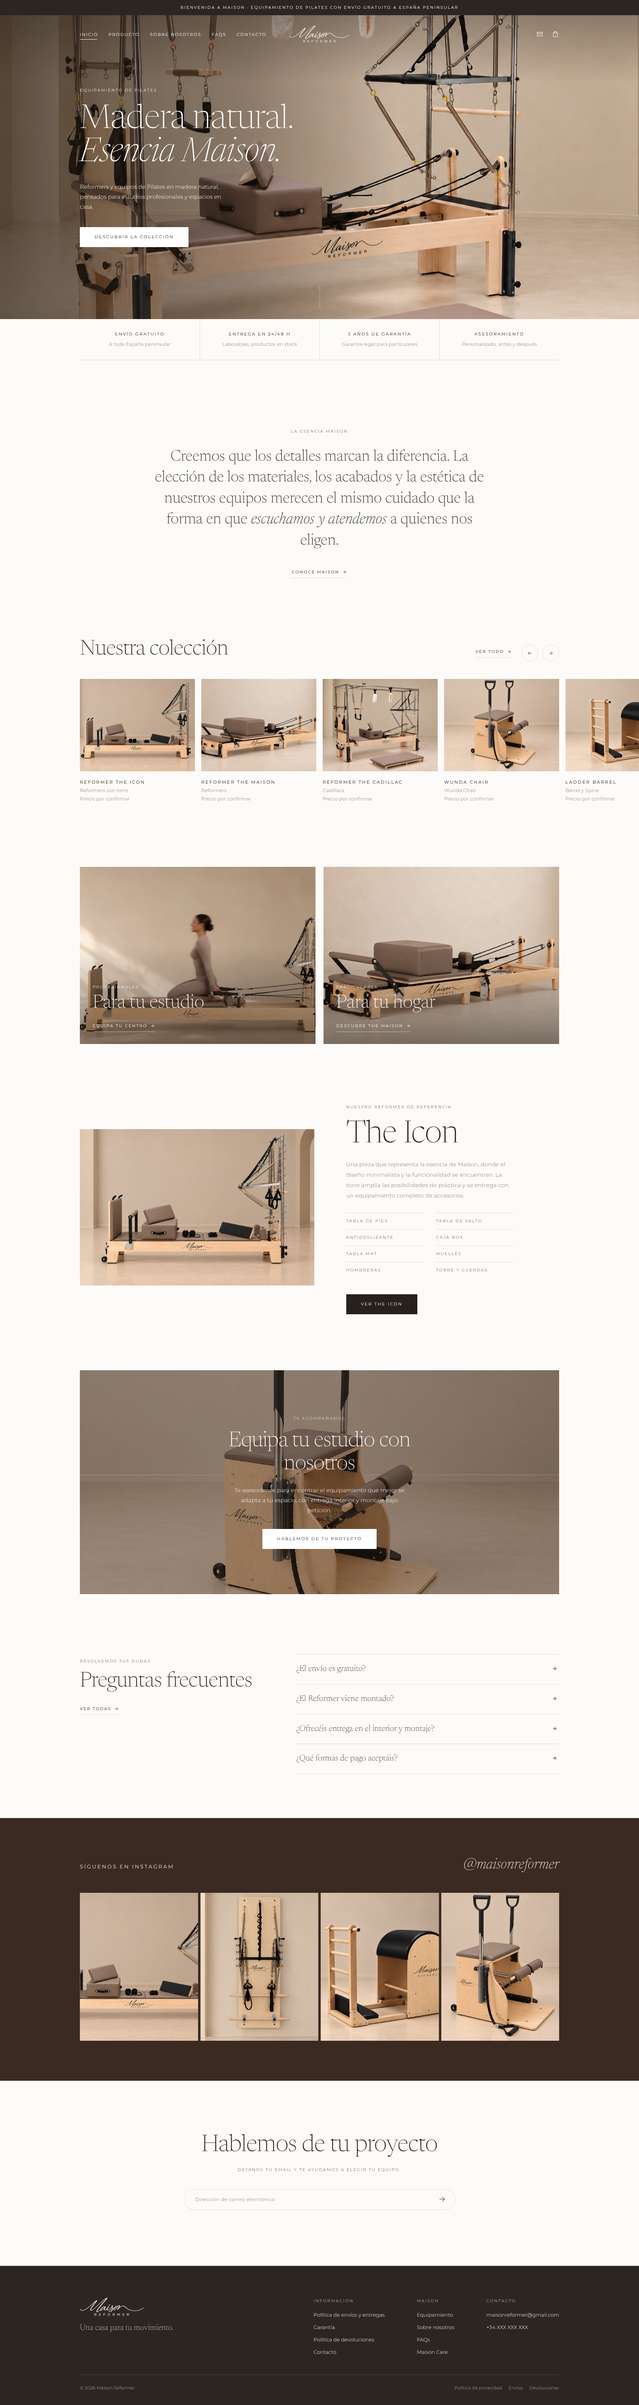
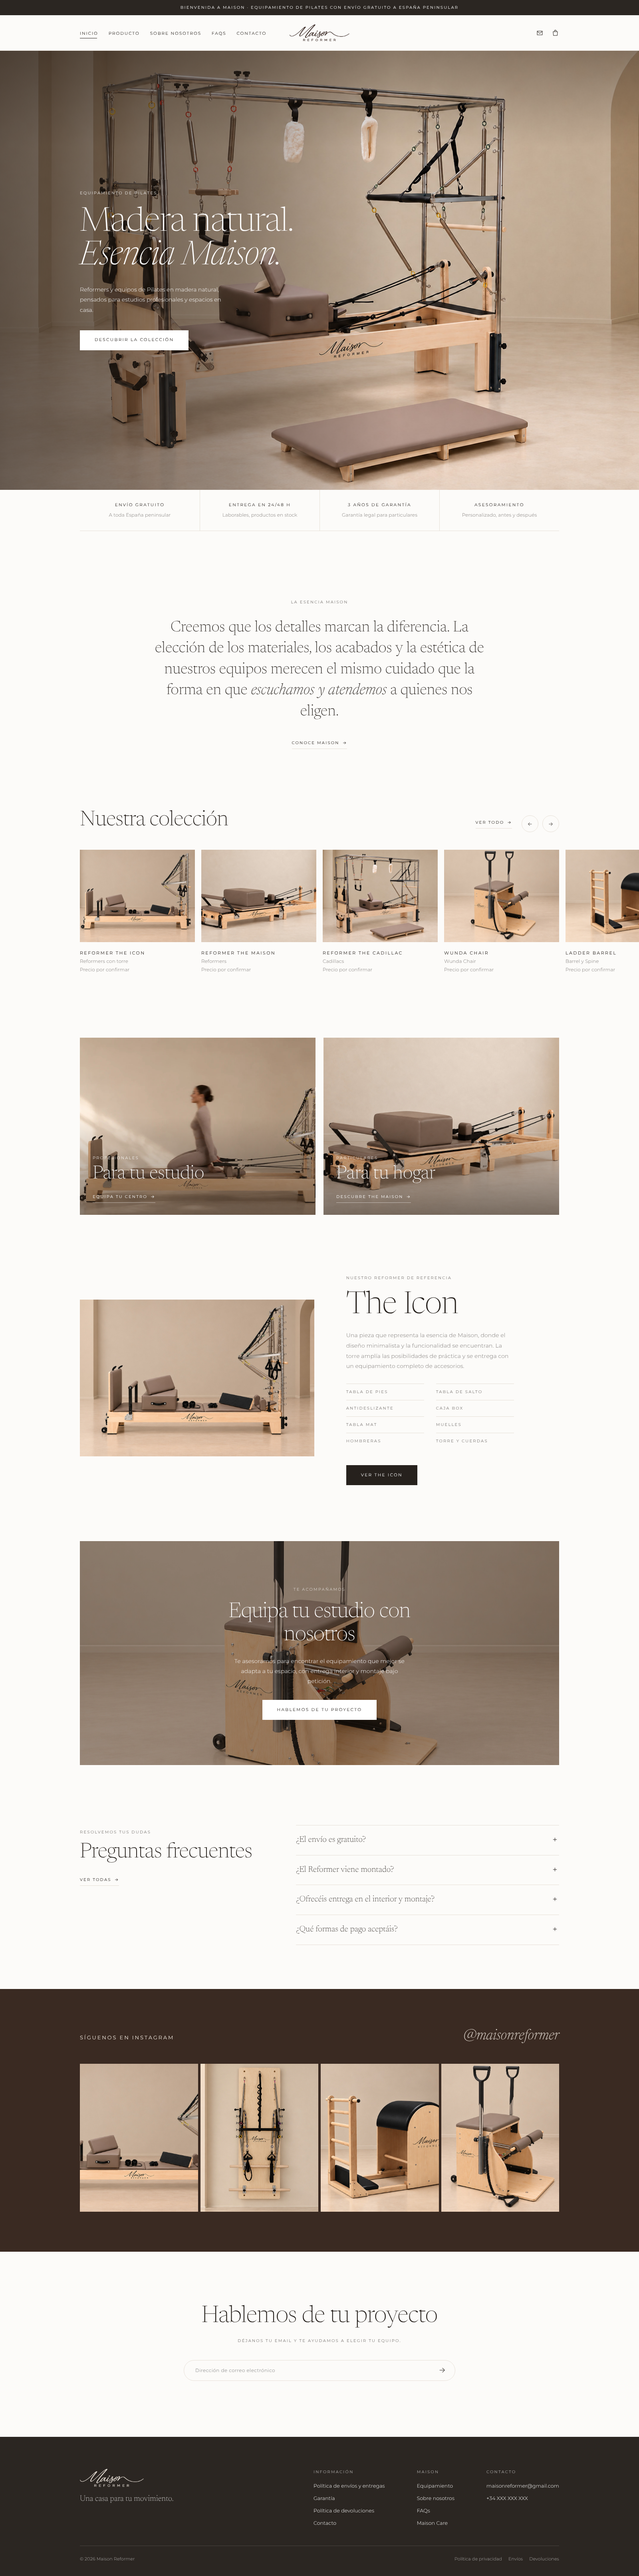
Foto principal entera, sin recortes
La portada muestra el Cadillac completo con su proporción original y la
cabecera deja de ir encima de la foto. Tema WordPress 1.7.0.

Claude-Session: https://claude.ai/code/session_01Kmjfpmw6MBJZFRJkHNTaPT

diff --git a/wordpress/maison-reformer/style.css b/wordpress/maison-reformer/style.css
@@ -3,7 +3,7 @@ Theme Name: Maison Reformer
 Theme URI: https://maisonreformer.com
 Author: Neris Studio
 Description: Tema a medida para Maison Reformer, equipamiento de Pilates en madera natural. Compatible con WooCommerce. Incluye importador de contenido en Apariencia → Maison Reformer.
-Version: 1.6.0
+Version: 1.7.0
 Requires at least: 6.2
 Requires PHP: 7.4
 WC requires at least: 8.0
@@ -742,6 +742,21 @@ strong, b { font-weight: 500; }
 @media (max-width: 760px) { .hero img.hero-img { object-position: 50% 50%; } }
 .hero::after { background: linear-gradient(90deg, rgba(40, 30, 22, .66) 0%, rgba(40, 30, 22, .38) 38%, rgba(40, 30, 22, 0) 62%), linear-gradient(180deg, rgba(40, 30, 22, .35) 0%, rgba(40, 30, 22, 0) 22%); }
 
+/* v8 · Foto principal entera, sin recortes: la cabecera ya no va encima */
+.home .header, .home .header.solid { position: sticky; top: 0; background: var(--paper); color: var(--ink); box-shadow: 0 1px 0 var(--line); }
+.home .header .logo-dark { display: block; }
+.home .header .logo-light { display: none; }
+.home .topbar { display: block; }
+.hero { height: auto; min-height: 0; max-height: none; aspect-ratio: 1491 / 1024; }
+.hero img.hero-img { animation: none; object-fit: cover; object-position: 50% 50%; }
+@media (max-width: 760px) {
+  .home .header, .home .header:not(.solid):not(.menu-open) { background: var(--paper); color: var(--ink); }
+  .home .topbar { display: none; }
+  .hero { aspect-ratio: auto; padding-top: 0; }
+  .hero img.hero-img { aspect-ratio: 1491 / 1024; object-position: 50% 50%; }
+}
+.scroll-cue { display: none; }
+
 /* =========================================================================
    WordPress
    ========================================================================= */
@@ -774,6 +789,12 @@ strong, b { font-weight: 500; }
 @media (max-width: 782px) {
   .admin-bar .header, .admin-bar.home .header, .admin-bar.home .header.solid { top: 46px; }
 }
+
+/* v8 admin: la cabecera de la portada ya no flota sobre la foto */
+.admin-bar.home .header, .admin-bar.home .header.solid { top: 32px; }
+@media (max-width: 782px) { .admin-bar.home .header, .admin-bar.home .header.solid { top: 46px; } }
+@media (max-width: 760px) { .admin-bar.home .hero { padding-top: 0 !important; } }
+@media (max-width: 600px) { .admin-bar.home .header, .admin-bar.home .header.solid { top: 0; } }
 
 /* =========================================================================
    WooCommerce

diff --git a/maison-reformer/css/style.css b/maison-reformer/css/style.css
@@ -728,3 +728,18 @@ strong, b { font-weight: 500; }
 .hero-img { object-position: 60% 55%; }
 @media (max-width: 760px) { .hero img.hero-img { object-position: 50% 50%; } }
 .hero::after { background: linear-gradient(90deg, rgba(40, 30, 22, .66) 0%, rgba(40, 30, 22, .38) 38%, rgba(40, 30, 22, 0) 62%), linear-gradient(180deg, rgba(40, 30, 22, .35) 0%, rgba(40, 30, 22, 0) 22%); }
+
+/* v8 · Foto principal entera, sin recortes: la cabecera ya no va encima */
+.home .header, .home .header.solid { position: sticky; top: 0; background: var(--paper); color: var(--ink); box-shadow: 0 1px 0 var(--line); }
+.home .header .logo-dark { display: block; }
+.home .header .logo-light { display: none; }
+.home .topbar { display: block; }
+.hero { height: auto; min-height: 0; max-height: none; aspect-ratio: 1491 / 1024; }
+.hero img.hero-img { animation: none; object-fit: cover; object-position: 50% 50%; }
+@media (max-width: 760px) {
+  .home .header, .home .header:not(.solid):not(.menu-open) { background: var(--paper); color: var(--ink); }
+  .home .topbar { display: none; }
+  .hero { aspect-ratio: auto; padding-top: 0; }
+  .hero img.hero-img { aspect-ratio: 1491 / 1024; object-position: 50% 50%; }
+}
+.scroll-cue { display: none; }

diff --git a/wordpress/maison-reformer/functions.php b/wordpress/maison-reformer/functions.php
@@ -7,7 +7,7 @@
 
 defined( 'ABSPATH' ) || exit;
 
-define( 'MAISON_VERSION', '1.6.0' );
+define( 'MAISON_VERSION', '1.7.0' );
 define( 'MAISON_DIR', get_template_directory() );
 define( 'MAISON_URI', get_template_directory_uri() );
 
